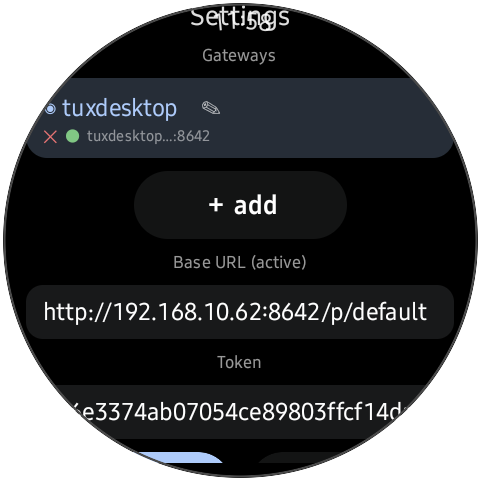
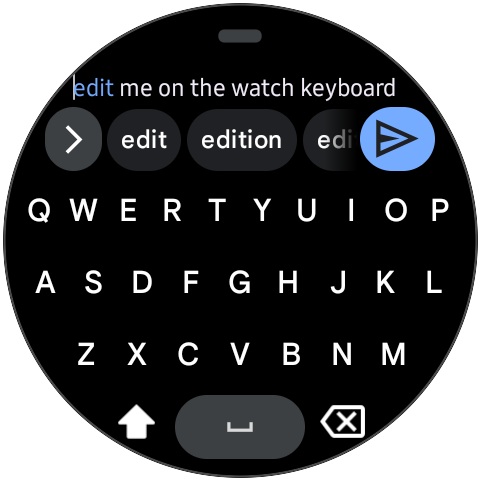
real two-column markdown tables (bold header + hairline + aligned cells; wider tables keep the readable-row degradation), +2 parser tests (177 green); README: proper keyboard shot (the old one was a settings frame that also leaked a token fragment) and full markdown-demo hero with table

diff --git a/app/src/main/java/dev/hermes/wearos/ui/md/MdText.kt b/app/src/main/java/dev/hermes/wearos/ui/md/MdText.kt
@@ -99,7 +99,40 @@ fun MdBlockView(block: MdBlock, blockKey: Any, modifier: Modifier = Modifier) {
 
         is MdBlock.Image -> ImageBlock(block.alt, block.target, blockKey, modifier)
 
-        is MdBlock.Table -> Column(modifier.fillMaxWidth()) {
+        is MdBlock.Table -> if (block.gridable) {
+            // True mini-grid for exactly-2 labelled columns: header + hairline + rows (F3 note).
+            Column(modifier.fillMaxWidth().padding(vertical = 2.dp)) {
+                Row(Modifier.fillMaxWidth()) {
+                    block.header.forEach { cell ->
+                        Text(
+                            WatchMarkdown.parseInline(cell).annotated(),
+                            modifier = Modifier.weight(1f).padding(horizontal = 4.dp, vertical = 2.dp),
+                            style = MaterialTheme.typography.caption1.scaled(),
+                            fontWeight = FontWeight.Bold,
+                            maxLines = 1,
+                            overflow = TextOverflow.Ellipsis,
+                        )
+                    }
+                }
+                Box(
+                    Modifier.fillMaxWidth().height(1.dp).padding(horizontal = 4.dp)
+                        .background(MaterialTheme.colors.onBackground.copy(alpha = 0.28f)),
+                )
+                block.rows.forEach { row ->
+                    Row(Modifier.fillMaxWidth()) {
+                        row.forEach { cell ->
+                            Text(
+                                WatchMarkdown.parseInline(cell).annotated(),
+                                modifier = Modifier.weight(1f).padding(horizontal = 4.dp, vertical = 2.dp),
+                                style = MaterialTheme.typography.caption2.scaled(),
+                                maxLines = 2,
+                                overflow = TextOverflow.Ellipsis,
+                            )
+                        }
+                    }
+                }
+            }
+        } else Column(modifier.fillMaxWidth()) {
             block.lines.forEach {
                 Text(
                     it,

diff --git a/app/src/main/java/dev/hermes/wearos/ui/md/WatchMarkdown.kt b/app/src/main/java/dev/hermes/wearos/ui/md/WatchMarkdown.kt
@@ -33,9 +33,20 @@ sealed interface MdBlock {
 
     /**
      * Markdown tables degrade to pre-formatted "· col: cell" caption lines — the watch is too
-     * narrow for a real grid, so each non-blank cell becomes its own labelled line (F3 note).
+     * narrow for a wide grid, so each non-blank cell becomes its own labelled line (F3 note).
+     * Structured [header]/[rows] ride along: when the table is exactly two labelled columns
+     * ([gridable]) the renderer draws a real mini-grid instead — narrow tables DO fit a round
+     * screen, and a visible table beats a clever degradation in the common case.
      */
-    data class Table(val lines: List<String>) : MdBlock
+    data class Table(
+        val lines: List<String>,
+        val header: List<String> = emptyList(),
+        val rows: List<List<String>> = emptyList(),
+    ) : MdBlock {
+        val gridable: Boolean
+            get() = header.size == 2 && header.none { it.isBlank() } &&
+                rows.isNotEmpty() && rows.all { it.size == 2 }
+    }
     data object HrLine : MdBlock
 }
 
@@ -166,7 +177,7 @@ object WatchMarkdown {
                 }
                 // Header-only table (streaming just the first rows): show it unlabeled, not lost.
                 if (linesOut.isEmpty() && header.isNotEmpty()) header.forEach { if (it.isNotEmpty()) linesOut += "· $it" }
-                if (linesOut.isNotEmpty()) out += MdBlock.Table(linesOut)
+                if (linesOut.isNotEmpty()) out += MdBlock.Table(linesOut, header, body.map { it.first })
                 i = j; continue
             }
 

diff --git a/app/src/test/java/dev/hermes/wearos/ui/md/WatchMarkdownTest.kt b/app/src/test/java/dev/hermes/wearos/ui/md/WatchMarkdownTest.kt
@@ -1,6 +1,7 @@
 package dev.hermes.wearos.ui.md
 
 import org.junit.Assert.assertEquals
+import org.junit.Assert.assertFalse
 import org.junit.Assert.assertTrue
 import org.junit.Test
 
@@ -141,6 +142,22 @@ class WatchMarkdownTest {
     @Test fun tableDegradesToLabelledLines() {
         val t = WatchMarkdown.parse("| lang | year |\n|------|------|\n| kotlin | 2011 |")[0] as MdBlock.Table
         assertEquals(listOf("· lang: kotlin", "· year: 2011"), t.lines)
+    }
+
+    @Test fun twoColumnLabelledTableIsGridable() {
+        val t = WatchMarkdown.parse("| lang | year |\n|------|------|\n| kotlin | 2011 |\n| rust | 2010 |")[0] as MdBlock.Table
+        assertTrue(t.gridable)
+        assertEquals(listOf("lang", "year"), t.header)
+        assertEquals(listOf(listOf("kotlin", "2011"), listOf("rust", "2010")), t.rows)
+    }
+
+    @Test fun wideHeaderlessOrStreamingTablesStayDegraded() {
+        val wide = WatchMarkdown.parse("| a | b | c |\n|---|---|---|\n| 1 | 2 | 3 |")[0] as MdBlock.Table
+        assertFalse(wide.gridable)
+        val noHeader = WatchMarkdown.parse("| kotlin | 2011 |")[0] as MdBlock.Table
+        assertFalse(noHeader.gridable)
+        val streaming = WatchMarkdown.parse("| lang | year |\n|---|---|")[0] as MdBlock.Table
+        assertFalse(streaming.gridable) // header-only mid-stream: no rows yet
     }
 
     /** Never lose text: unterminated markers render as literal characters. */

diff --git a/README.md b/README.md
@@ -28,7 +28,7 @@ encrypted and bounded. It's the "own your stack" demo that lives on your wrist.
 | | |
 |---|---|
 | <img src="docs/screens/02-chat-markdown.png" width="180"/> | <img src="docs/screens/08-sessions.png" width="180"/> |
-| **Streaming markdown**, rendered for a round screen: headings, bold, bullets, numbered lists, tap-to-expand code chips, and tables (rendered as readable rows — on 1.4 inches, a grid of pipes is a crime). Pinch to scale text (double-tap resets); media keeps its own zoom. | **Sessions, from your wrist** — browse and adopt desktop/server sessions (`💻`), with their history backfilled; filters, resume, one-tap new. |
+| **Streaming markdown**, rendered for a round screen: headings, bold, bullets, numbered lists, tap-to-expand code chips, and real two-column tables (bold header, hairline, aligned cells) — wider tables degrade to readable rows, because a grid of pipes on 1.4 inches is a crime. Pinch to scale text (double-tap resets); media keeps its own zoom. | **Sessions, from your wrist** — browse and adopt desktop/server sessions (`💻`), with their history backfilled; filters, resume, one-tap new. |
 | <img src="docs/screens/03-image-card.png" width="180"/> | <img src="docs/screens/04-viewer-zoom.png" width="180"/> |
 | **Images at full resolution** — the agent draws, the watch decodes and shows it. Tap to open the viewer. | **Zoom viewer** — double-tap or pinch to zoom, drag to pan below fit, tap anywhere to close. |
 | <img src="docs/screens/06-ptt-overlay.png" width="180"/> | <img src="docs/screens/07-stop-running.png" width="180"/> |
